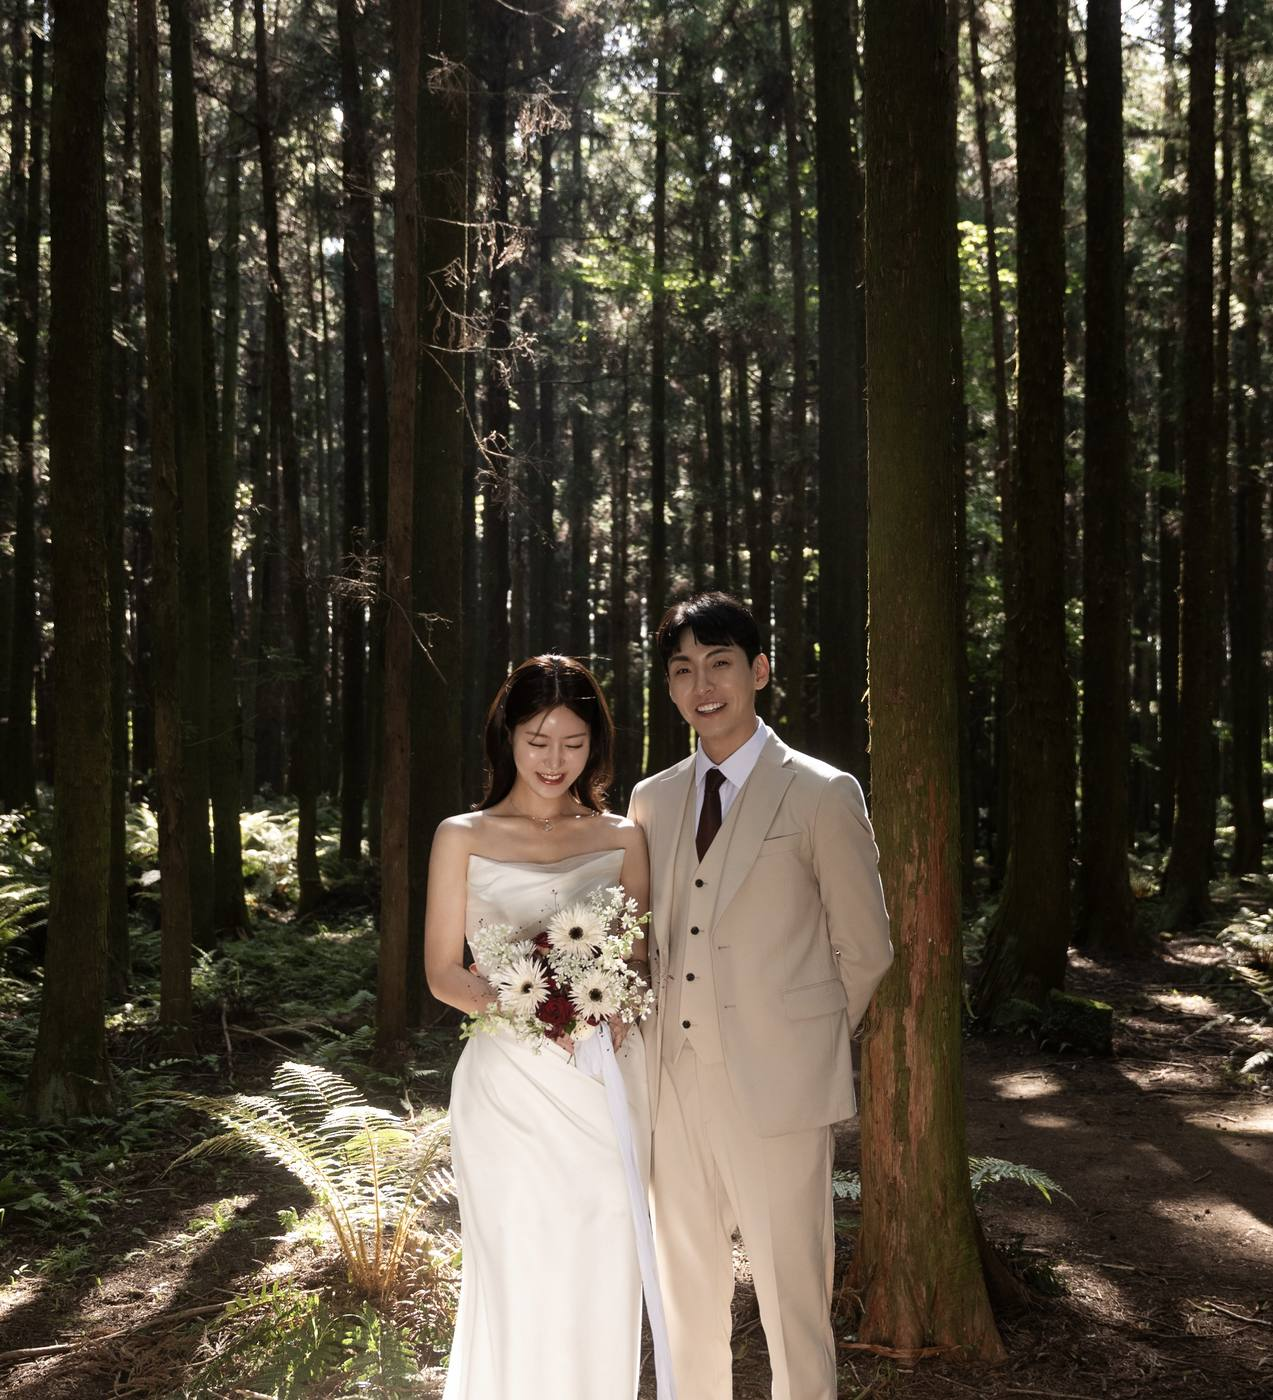
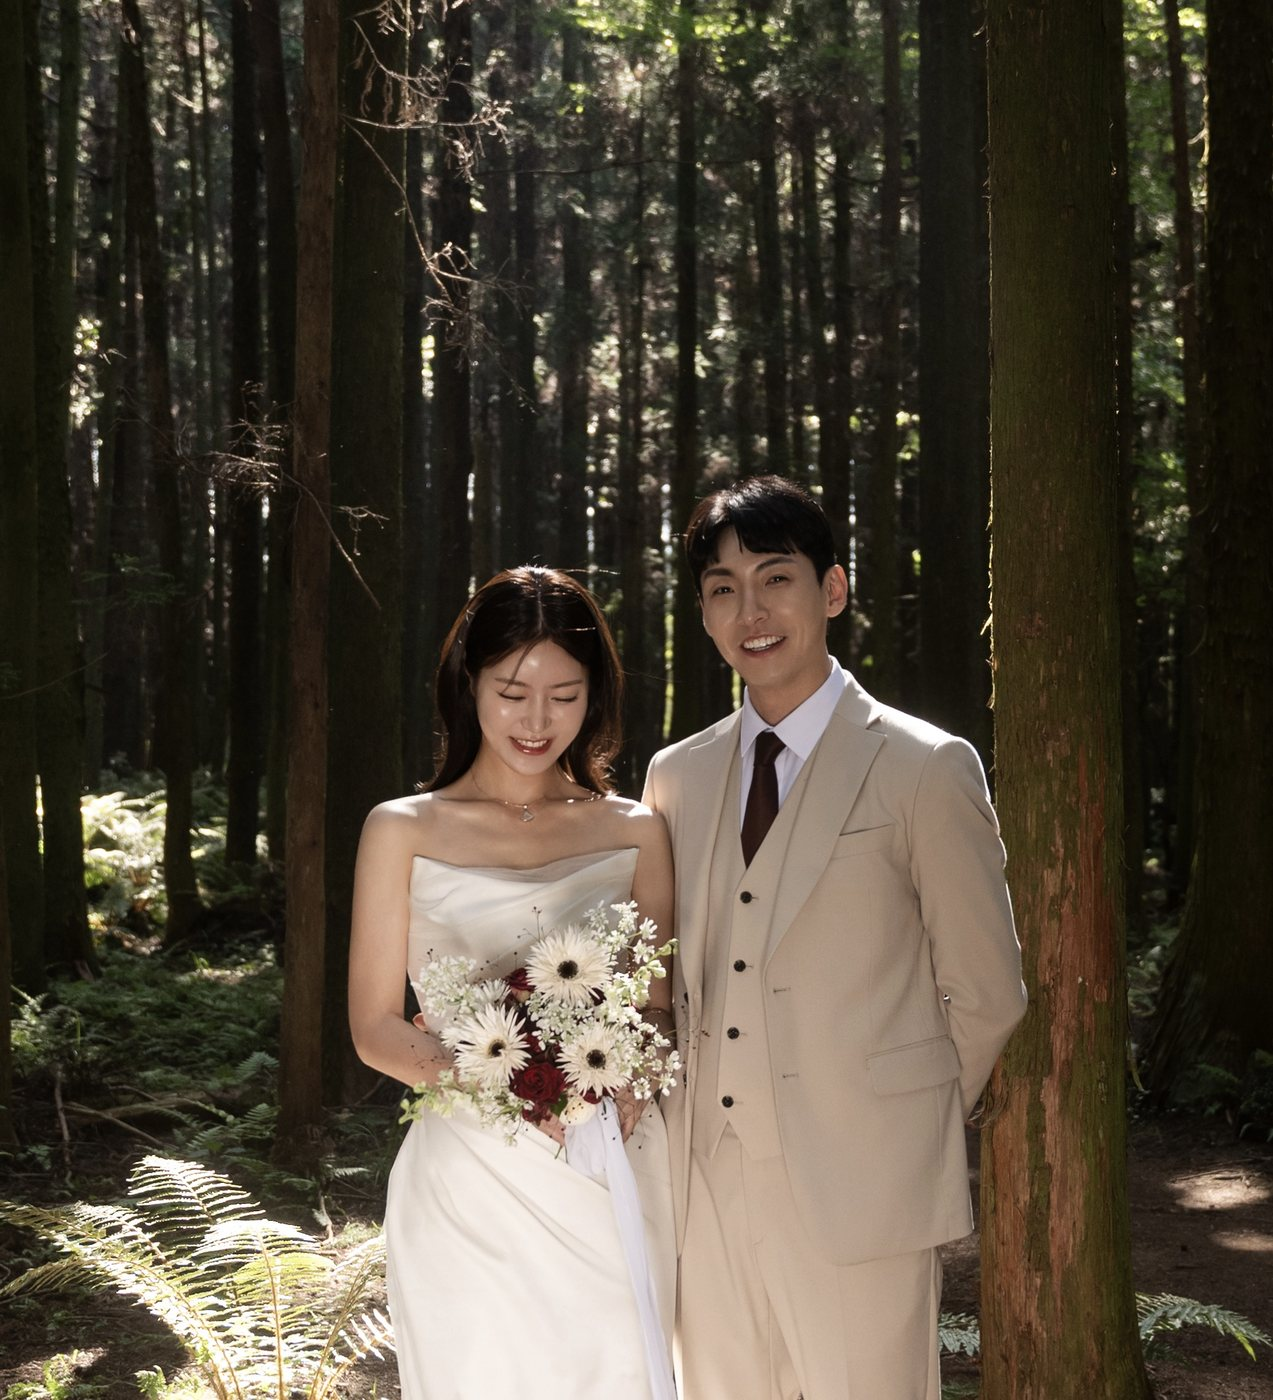
히어로 얼굴 확대·상향 + OG 썸네일 문구 제거 + 문구 두 섹션 합침
- 히어로(main.jpg): 더 당겨 잡고 얼굴을 44% → 30% 지점으로. 커플 폭 38% → 55%
- OG(og.jpg): 문구 오버레이 없는 사진만으로 교체(얼굴 35% 지점)
- 시 인용 섹션과 INVITATION 초대글이 배경색까지 다른 두 섹션으로 갈라져 있던 것을
  INVITATION 한 섹션으로 합침(인용문 → 초대문구 순, quote-sec CSS/HTML 제거)

diff --git a/seokyong-eunhye.html b/seokyong-eunhye.html
@@ -250,10 +250,6 @@ footer .thanks{font-size:12.5px;color:var(--sub);margin:16px 0 34px;line-height:
 .env-names{font-size:18px;letter-spacing:3px;color:var(--ink);font-weight:700}
 .env-names .amp{font-family:'Fraunces',serif;font-style:italic;color:var(--sub);font-size:18px;margin:0 9px;font-weight:400}
 .env-info{margin-top:12px;font-size:12px;color:var(--sub);line-height:1.95;font-weight:300}
-/* ── 시 인용 ── */
-.quote-sec{padding:86px 30px;text-align:center;background:#FCFAF6}
-.quote-body{font-size:15px;line-height:2.3;color:var(--ink);font-weight:300}
-.quote-from{margin-top:26px;font-size:11.5px;letter-spacing:3px;color:var(--accent)}
 /* ── 안내 탭 ── */
 
 
@@ -295,18 +291,15 @@ footer .thanks{font-size:12.5px;color:var(--sub);margin:16px 0 34px;line-height:
     </div>
   </section>
 
-  <!-- 시 인용 -->
-  <section class="quote-sec">
-    <p class="quote-body">"곁에 있을 때 가장 나다운 모습이<br>되게 하는 사람과<br>앞으로의 모든 계절을<br>함께 하고자 합니다."</p>
-    <p class="quote-from">석용 &amp; 은혜</p>
-  </section>
-
   <!-- 초대글 -->
   <section id="invite">
     <div class="reveal"><div class="sec-label">INVITATION</div>
     <div class="sec-title">소중한 분들을 초대합니다</div>
     <div class="divider"></div></div>
     <p class="invite-msg reveal d2">
+      곁에 있을 때 가장 나다운 모습이<br>
+      되게 하는 사람과<br>
+      앞으로의 모든 계절을 함께 하고자 합니다.<br><br>
       10월의 어느 날,<br>
       늘 곁에서 아껴주신<br>
       고마운 분들을 모시고자 합니다.<br><br>
